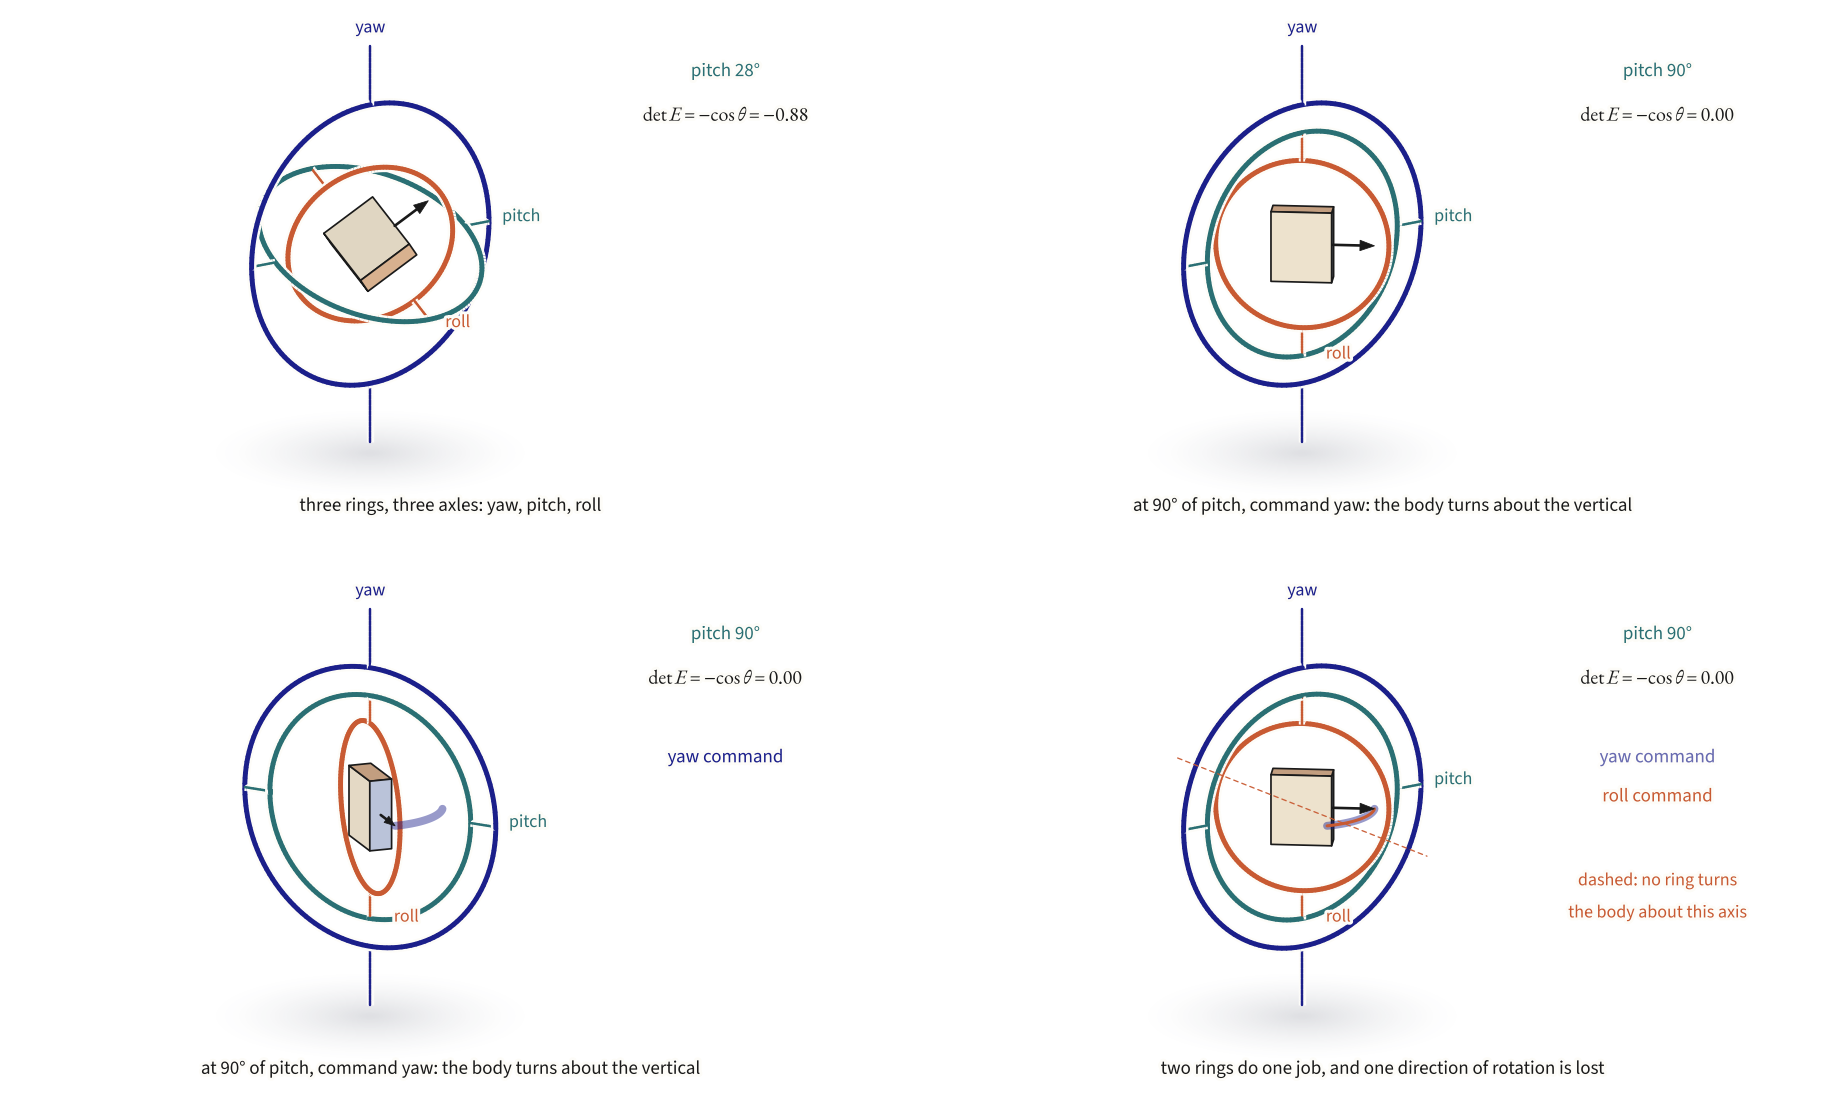
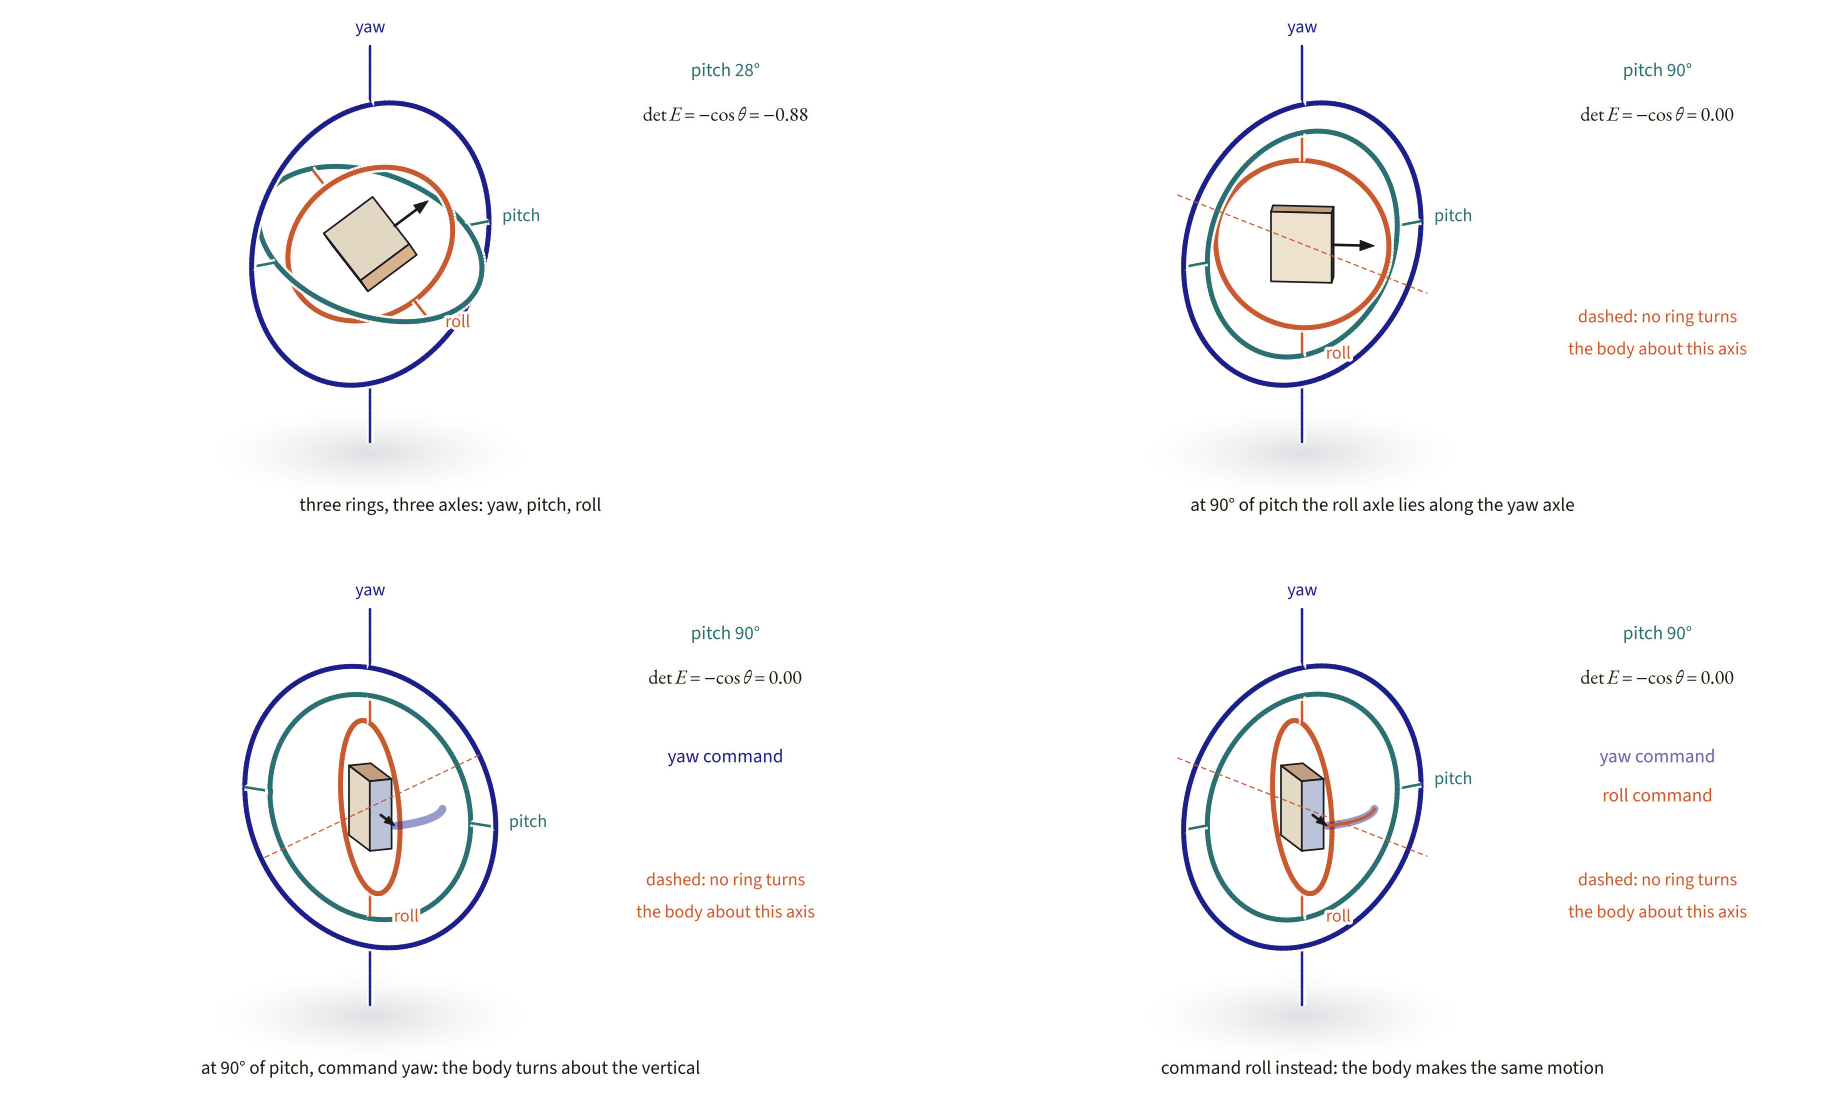
Chapter 3: animations for the opening puzzle, variation, lingering, parallel transport and the transport map
Claude-Session: https://claude.ai/code/session_01LNbF4wiQ7XeJeyzZUiNtaN

diff --git a/figures/src/ch01.py b/figures/src/ch01.py
@@ -297,7 +297,7 @@ def plate_frame(t):
             poly(s, quad, col, z)
             for a, b in ((quad[0], quad[3]), (quad[1], quad[2])):
                 xy = s.project([a, b])
-                s.ax.plot(xy[:, 0], xy[:, 1], color=INK, lw=0.9, solid_capstyle="round", zorder=z + 5e-4)
+                s.ax.plot(xy[:, 0], xy[:, 1], color=INK, lw=0.9, solid_capstyle="round", zorder=z + 1.5e-3)
         pieces.append((depth, draw))
 
     # the plate: level, turned by `turn` about the vertical, carried by the end of the ribbon
@@ -499,8 +499,8 @@ def gimbal_frame(t):
         reach = bump(p_roll) if p_roll < 0.5 else 1.0
         arc = [c + tip * gimbal_body(yaw0, locked, roll0 + GIMBAL_SWEEP * u) @ E2 for u in np.linspace(0, reach, 40)]
         s.curve(np.array(arc), color=TERRACOTTA, lw=1.6, alpha=1.0, zorder=42)
-    if t >= 0.90:
-        lost = rot(E3, yaw0) @ E1                      # at 90 degrees of pitch no axle has a component along this
+    if t >= 0.36:
+        lost = rot(E3, yaw) @ E1                      # at 90 degrees of pitch no axle has a component along this
         s.curve(np.array([c - 1.5 * lost, c + 1.5 * lost]), color=TERRACOTTA, hidden=True, alpha=0.95, lw=1.1, zorder=44)
         s.text2d(2.45, -0.62, "dashed: no ring turns\nthe body about this axis", fontsize=9.5, color=TERRACOTTA,
                  linespacing=1.25, **SANS)
@@ -515,8 +515,10 @@ def gimbal_frame(t):
         s.text2d(x0, 0.08, "roll command", fontsize=10, color=TERRACOTTA, **SANS)
     if t < 0.10:
         msg = "three rings, three axles: yaw, pitch, roll"
-    elif t < 0.40:
+    elif t < 0.36:
         msg = "pitch the middle ring up: the roll axle swings toward the yaw axle"
+    elif t < 0.42:
+        msg = "at 90° of pitch the roll axle lies along the yaw axle"
     elif t < 0.66:
         msg = "at 90° of pitch, command yaw: the body turns about the vertical"
     elif t < 0.90:
@@ -529,7 +531,7 @@ def gimbal_frame(t):
 
 def gimbals():
     animate(gimbal_frame, OUT / "ch01-gimbals.gif", OUT / "ch01-gimbals-strip.png", n=110, fps=14,
-            width_px=720, stills=(0.0, 0.40, 0.53, 1.0), strip_px=900, strip_cols=2)
+            width_px=720, stills=(0.0, 0.39, 0.53, 0.79), strip_px=900, strip_cols=2)
 
 
 # ------------------------------------------------------ animation: unwinding
@@ -572,7 +574,7 @@ def unwinding_runs():
 def unwinding_frame(t):
     runs = unwinding_runs()
     time = UNWIND_T * phase(t, 0.07, 0.93)
-    s = Scene(width=6.6, height=3.7, azim=-62, elev=34, xlim=(-3.3, 3.3), ylim=(-1.9, 1.8))
+    s = Scene(width=6.6, height=3.4, azim=-62, elev=34, xlim=(-3.3, 3.3), ylim=(-1.87, 1.53))
 
     def cam(x, y):
         return x * s.right + y * s.up
@@ -640,7 +642,7 @@ def unwinding():
 def flow_frame(t):
     s = Scene(width=6.4, height=3.6, azim=-30, elev=20, xlim=(-2.9, 2.9), ylim=(-1.75, 1.5))
     qd = unit([0.1, -0.55, 0.83])
-    k_tau = 4.6 * ease(phase(t, 0.06, 0.94))                    # k times the elapsed time
+    k_tau = 7.0 * ease(phase(t, 0.06, 0.94))                    # k times the elapsed time
     s.shadow((0, 0, -1.1), 1.0)
     s.sphere((0, 0, 0), 1.0, color=PERIWINKLE)
     side = unit(np.cross(qd, E1))
@@ -656,9 +658,9 @@ def flow_frame(t):
             tail = np.array([np.cos(a) * qd + np.sin(a) * start
                              for a in angle(np.linspace(max(k_tau - 0.3, 0.0), k_tau, 10))])
             head = tail[-1]
-            if k_tau > 0:
+            if k_tau > 0 and tail[0] @ qd < np.cos(0.05):
                 s.sphere_curve(1.003 * tail, color=INDIGO, lw=1.5, show_hidden=False, zorder=24)
-            if s.point_visible(head):
+            if s.point_visible(head) and head @ qd < np.cos(0.05):
                 s.dot(1.003 * head, color=INDIGO, size=3.6, zorder=31)
     s.dot(qd, color=INK, size=6, zorder=45)
     s.dot(-qd, color=TERRACOTTA, size=6, hollow=True, zorder=45)

diff --git a/figures/src/ch03.py b/figures/src/ch03.py
@@ -286,7 +286,7 @@ def linger_frame(t):
                  zorder=8 if far else 9, clip_on=False)
         ax1.plot(ts, np.degrees(sol(ts)[0]), color=col, lw=1.8, ls=(0, (4, 2.5)) if far else "-", zorder=3)
         ax1.plot([now], [np.degrees(a_now)], "o", ms=5.5, mfc=PAPER if far else col, mec=col, mew=1.2, zorder=8, clip_on=False)
-    # legend that fills in as each run comes inside 5 degrees for good
+    # legend that fills in as each run comes inside 5° for good
     rows = [("log", 179.0, r"logarithm  $\frac{1}{2}\theta^2$"), ("quat", 179.0, r"quaternion  $4(1-\cos\frac{\theta}{2})$"),
             ("trace", 179.0, r"trace  $1-\cos\theta$"), ("trace", 179.9, "trace, from 179.9°")]
     ax0.text(6, 5.25, "inside 5° for good after", fontsize=9, color=MUTED, ha="left", **SANS)
@@ -308,7 +308,7 @@ def linger_frame(t):
     ax1.text(9.95, 11, "5°", fontsize=8.5, color=MUTED, ha="right", **SANS)
     ax1.text(9.95, 181, f"t = {now:.1f} s", fontsize=10, ha="right", **SANS)
     t_a, t_b = runs["trace", 179.0][1], runs["trace", 179.9][1]
-    if now >= t_b:                                                # the gap between the two trace runs, measured at 60 degrees
+    if now >= t_b:                                                # the gap between the two trace runs, measured at 60°
         grid = np.linspace(0, 10, 10001)
         c_a, c_b = (grid[np.argmax(np.degrees(runs["trace", s0][0](grid)[0]) < 60)] for s0 in (179.0, 179.9))
         ax1.annotate("", (c_b, 60), xytext=(c_a, 60), arrowprops=dict(arrowstyle="<|-|>", color=MUTED, lw=0.8, mutation_scale=8,

diff --git a/verify/ch04.py b/verify/ch04.py
@@ -743,12 +743,15 @@ ck.record("opening_pitch_peaks_deg", peaks_o)
 k_o = int(np.argmax(a_o))
 ck.close("opening animation: plotted condition number is cond(E'JE) at the simulated pitch and roll", cond_o[k_o],
          np.linalg.cond(D_euler(-np.arcsin(Rs_o[k_o][2, 0]), np.arctan2(Rs_o[k_o][2, 1], Rs_o[k_o][2, 2]))), tol=1e-6 * cond_o[k_o])
-ck.true("opening animation: cond(E'JE) exceeds 1e4 at both passes", all(cond_o[np.abs(a_o - pk) < 1e-9].max() > 1e4 for pk in peaks_o))
+conds_o = [float(cond_o[np.abs(a_o - pk) < 1e-9].max()) for pk in peaks_o]
+ck.true("opening animation: cond(E'JE) is near 1e4 at the first pass and above 1e5 at the second",
+        9e3 < conds_o[0] < 1.1e4 and conds_o[1] > 1e5, f"{conds_o[0]:.3g}, {conds_o[1]:.3g}")
+ck.record("opening_cond_at_peaks", conds_o)
 
 # fig4-variation: the action of the varied pendulum path
 t_v, Q_v, xi_v, varied_v, eps_v, dS_v = fig.variation_data()
 ck.true("variation animation: every varied path stays on the sphere and keeps its endpoints",
-        np.max(np.abs(np.linalg.norm(varied_v(0.44), axis=1) - 1)) < 1e-12 and np.allclose(varied_v(0.44)[[0, -1]], Q_v[[0, -1]]))
+        np.max(np.abs(np.linalg.norm(varied_v(0.44), axis=1) - 1)) < 1e-8 and np.allclose(varied_v(0.44)[[0, -1]], Q_v[[0, -1]]))
 ck.true("variation animation: xi is perpendicular to q", np.max(np.abs(np.sum(xi_v * Q_v, axis=1))) < 1e-8)
 mid_v = len(eps_v) // 2
 slope_v = (dS_v[mid_v + 1] - dS_v[mid_v - 1]) / (eps_v[mid_v + 1] - eps_v[mid_v - 1])

diff --git a/chapters/ch04_coordinate_free_dynamics.md b/chapters/ch04_coordinate_free_dynamics.md
@@ -21,11 +21,13 @@ $$
 
 where $\rho$ is the body-frame vector from the pivot to the center of mass. One line. The mass matrix is $J$, a constant.
 
+![The puzzle of this chapter. A 3D pendulum is released and swings twice to within about a degree of the attitude where its pitch is 90°, with the body axis $R\,e_1$ vertical. The body does nothing special there. The condition number of the Euler-angle mass matrix $E\T J E$ spikes at each pass. That of $J$ stays at 2.5.](figures/ch04-pendulum-strip.png){#fig4-pendulum anim="figures/ch04-pendulum.gif"}
+
 Where both work they give the same motion. But take a body with $J = \operatorname{diag}(0.20, 0.25, 0.10)$ kg·m² and look at how hard each mass matrix is to invert ([](#fig4-euler-cond)). The condition number of $J$ is 2.5 at every attitude. The condition number of $E\T J E$ is 2.5 when the body is level, 25 at 60° of pitch, 974 at 85°, and $2.4\times10^4$ at 89°. At 90° the matrix is singular and cannot be inverted at all.
 
 ![Condition number of the mass matrix of a 3D pendulum against pitch angle, at 20° of roll. In Euler angles it grows like $1/\cos^2\theta$. In the body frame it is the constant 2.5.](figures/ch04-euler-cond.svg){#fig4-euler-cond}
 
-Nothing happens to the pendulum at 90° of pitch. So where did the hundred terms go, and why does the short equation never blow up? To answer, we need to derive equations of motion without ever choosing a chart.
+Nothing happens to the pendulum at 90° of pitch ([](#fig4-pendulum)). So where did the hundred terms go, and why does the short equation never blow up? To answer, we need to derive equations of motion without ever choosing a chart.
 
 ## Hamilton's principle, on flat ground {#sec4-hamilton}
 
@@ -83,7 +85,7 @@ $$
 
 This is the variation on the sphere of [](#def3-variation), with the velocity rule [](#eq3-delta-qdot). Each $q_\epsilon(t)$ is $q(t)$ turned by the angle $\epsilon\|\xi\|$ about $\xi$, so its length is still one ([](#fig4-variation)). A component of $\xi$ along $q$ turns $q$ about itself and does nothing, so we take $\xi\cdot q = 0$. The fixed endpoints become $\xi(0) = \xi(t_f) = 0$.
 
-![Hamilton's principle on the sphere. The path $q(t)$ is a computed pendulum swing. Each neighboring curve is $q(t)$ rotated about $\xi(t)$, so it stays on the sphere. The arrows are the variation $\delta q = \xi\times q$, tangent to the sphere and zero at both ends.](figures/ch04-variation-s2.svg){#fig4-variation}
+![Hamilton's principle on the sphere. The indigo path $q(t)$ is a computed swing of a 1 kg bob on a 1 m rod. The teal path is $q(t)$ turned about $\xi(t)$ by the angle $\epsilon\|\xi\|$, so it stays on the sphere and keeps its endpoints. The arrows show how far five of its points have moved. Right: the action of the varied path, computed for each $\epsilon$. It is stationary at $\epsilon = 0$.](figures/ch04-variation-strip.png){#fig4-variation anim="figures/ch04-variation.gif"}
 
 Now the three moves. Varying and integrating by parts work exactly as before and give
 
@@ -227,8 +229,10 @@ Before trusting a model, ask what it must conserve. With no torque, [](#eq4-newt
 ::: {.thought #thought4-book name="Toss a book"}
 Put a rubber band round a paperback so it stays shut. It has three natural axes: through the covers, along the spine, and across the width. Toss it spinning about the axis through the covers. It spins cleanly. Toss it spinning along the spine. Clean again. Now toss it spinning about the axis across the width. However carefully you throw, it comes down having flipped over.
 
-Nothing pushed it. There is no torque in the air. Euler's equation [](#eq4-euler-free) is doing this by itself.
+Nothing pushed it. There is no torque in the air. Euler's equation [](#eq4-euler-free) is doing this by itself ([](#fig4-book)).
 :::
+
+![The three tosses, computed from Euler's equation for the book of [](#ex4-book) at two revolutions per second. Left: the book in the world frame. The dashed arrow is its angular momentum $R J\Omega$, which never moves. Right: the body angular momentum $J\Omega$ on its sphere. Spun about $e_3$ or $e_1$ the book keeps its axis. Spun about $e_2$ it turns over, and then comes back.](figures/ch04-book-strip.png){#fig4-book anim="figures/ch04-book.gif"}
 
 Here is the reason. In the body frame, $J\Omega$ moves on a sphere, since its length is conserved. It must also stay on a level set of the energy. Draw those level sets on the sphere ([](#fig4-polhodes), left). Around the axes of smallest and largest inertia they are closed loops: a spin that starts near those axes stays near. At the intermediate axis the level sets cross. A spin that starts there is carried along the crossing to the opposite side of the sphere, and back.
 
@@ -284,7 +288,7 @@ Read three things off. First, the right side of the load equation is a multiple 
 ::: {.thought #thought4-cut name="Cut the motors"}
 The quadrotor is flying with the load swinging beneath it. Cut the thrust to zero. What does the cable do?
 
-Set $f = 0$ in [](#eq4-load). Then $\dot\omega = 0$: the cable keeps turning at whatever constant rate it had. Gravity does not swing it down, because gravity accelerates both ends equally. The pair has become a dumbbell tumbling in free fall, its center of mass on a parabola. A pendulum needs something to hang from, and a falling quadrotor is not it.
+Set $f = 0$ in [](#eq4-load). Then $\dot\omega = 0$: the cable keeps turning at whatever constant rate it had. Gravity does not swing it down, because gravity accelerates both ends equally. The pair has become a dumbbell tumbling in free fall, its center of mass on a parabola ([](#fig4-cut)). A pendulum needs something to hang from, and a falling quadrotor is not it.
 :::
 
 The tension is still available. From the load's free-body equation,
@@ -294,6 +298,8 @@ T = \frac{m_L}{m_Q + m_L}\big(m_Q l\,\|\dot q\|^2 - q\cdot f R e_3\big) . \label
 $$
 
 For $m_Q = 1.5$ kg and $m_L = 0.3$ kg in hover, $q = -e_3$, $R = I$ and $f = (m_Q + m_L)g = 17.7$ N, which gives $T = m_L g = 2.94$ N as it should.
+
+![Cut the motors, simulated with [](#eq4-load) for the same two masses and $l = 1$ m. The quadrotor flies level at hover thrust with the load swinging, and the thrust is cut as the cable passes the vertical. The cable keeps turning at a constant rate: the gray lines show it every 0.14 s. The center of mass leaves its level line for a parabola. The tension drops from 4.3 N to 1.4 N and stays there, positive because the cable is still turning.](figures/ch04-cut-strip.png){#fig4-cut anim="figures/ch04-cut.gif"}
 
 ::: {.warning #warn4-slack name="A cable cannot push"}
 Equations [](#eq4-load) assume a taut cable. They stay smooth when [](#eq4-load-tension) goes negative, and will then simulate a cable that pushes. Monitor the sign of $T$. When it reaches zero the load is in free fall, and the model must switch to two separate bodies until the cable snaps taut again.

diff --git a/chapters/ch03_variations_errors_transport.md b/chapters/ch03_variations_errors_transport.md
@@ -110,7 +110,7 @@ Lee, Leok and McClamroch (2018) write $\delta\omega = -\omega \times \xi + (I - 
 
 Wu and Sreenath (2015) keep $\delta\omega$ as a variable of its own and impose $q \cdot \delta\omega = -(\xi \times q)\cdot\omega$. That constraint is exactly the component along $q$ above.
 
-The trap is $\delta\omega = \dot\xi - \omega \times \xi$. It is only the tangential part. It gives correct equations whenever $\delta\omega$ is dotted with something tangent, which covers every simple pendulum. It gives gyroscopescopic terms at half strength otherwise. The symbolic library of [](#ch-symbolic) applies the full rule $\dot\xi - 2\,\omega\times\xi$ ([](#tbl5-leaves)).
+The trap is $\delta\omega = \dot\xi - \omega \times \xi$. It is only the tangential part. It gives correct equations whenever $\delta\omega$ is dotted with something tangent, which covers every simple pendulum. It gives gyroscopic terms at half strength otherwise. The symbolic library of [](#ch-symbolic) applies the full rule $\dot\xi - 2\,\omega\times\xi$ ([](#tbl5-leaves)).
 
 Do not borrow the sign from $\SO(3)$ either. There $\Omega$ and $\eta$ are body-frame vectors and the cross term enters with a plus. On the sphere $\omega$ and $\xi$ are world-frame axes, and the sign flips ([](#exr3-world-frame)).
 :::
